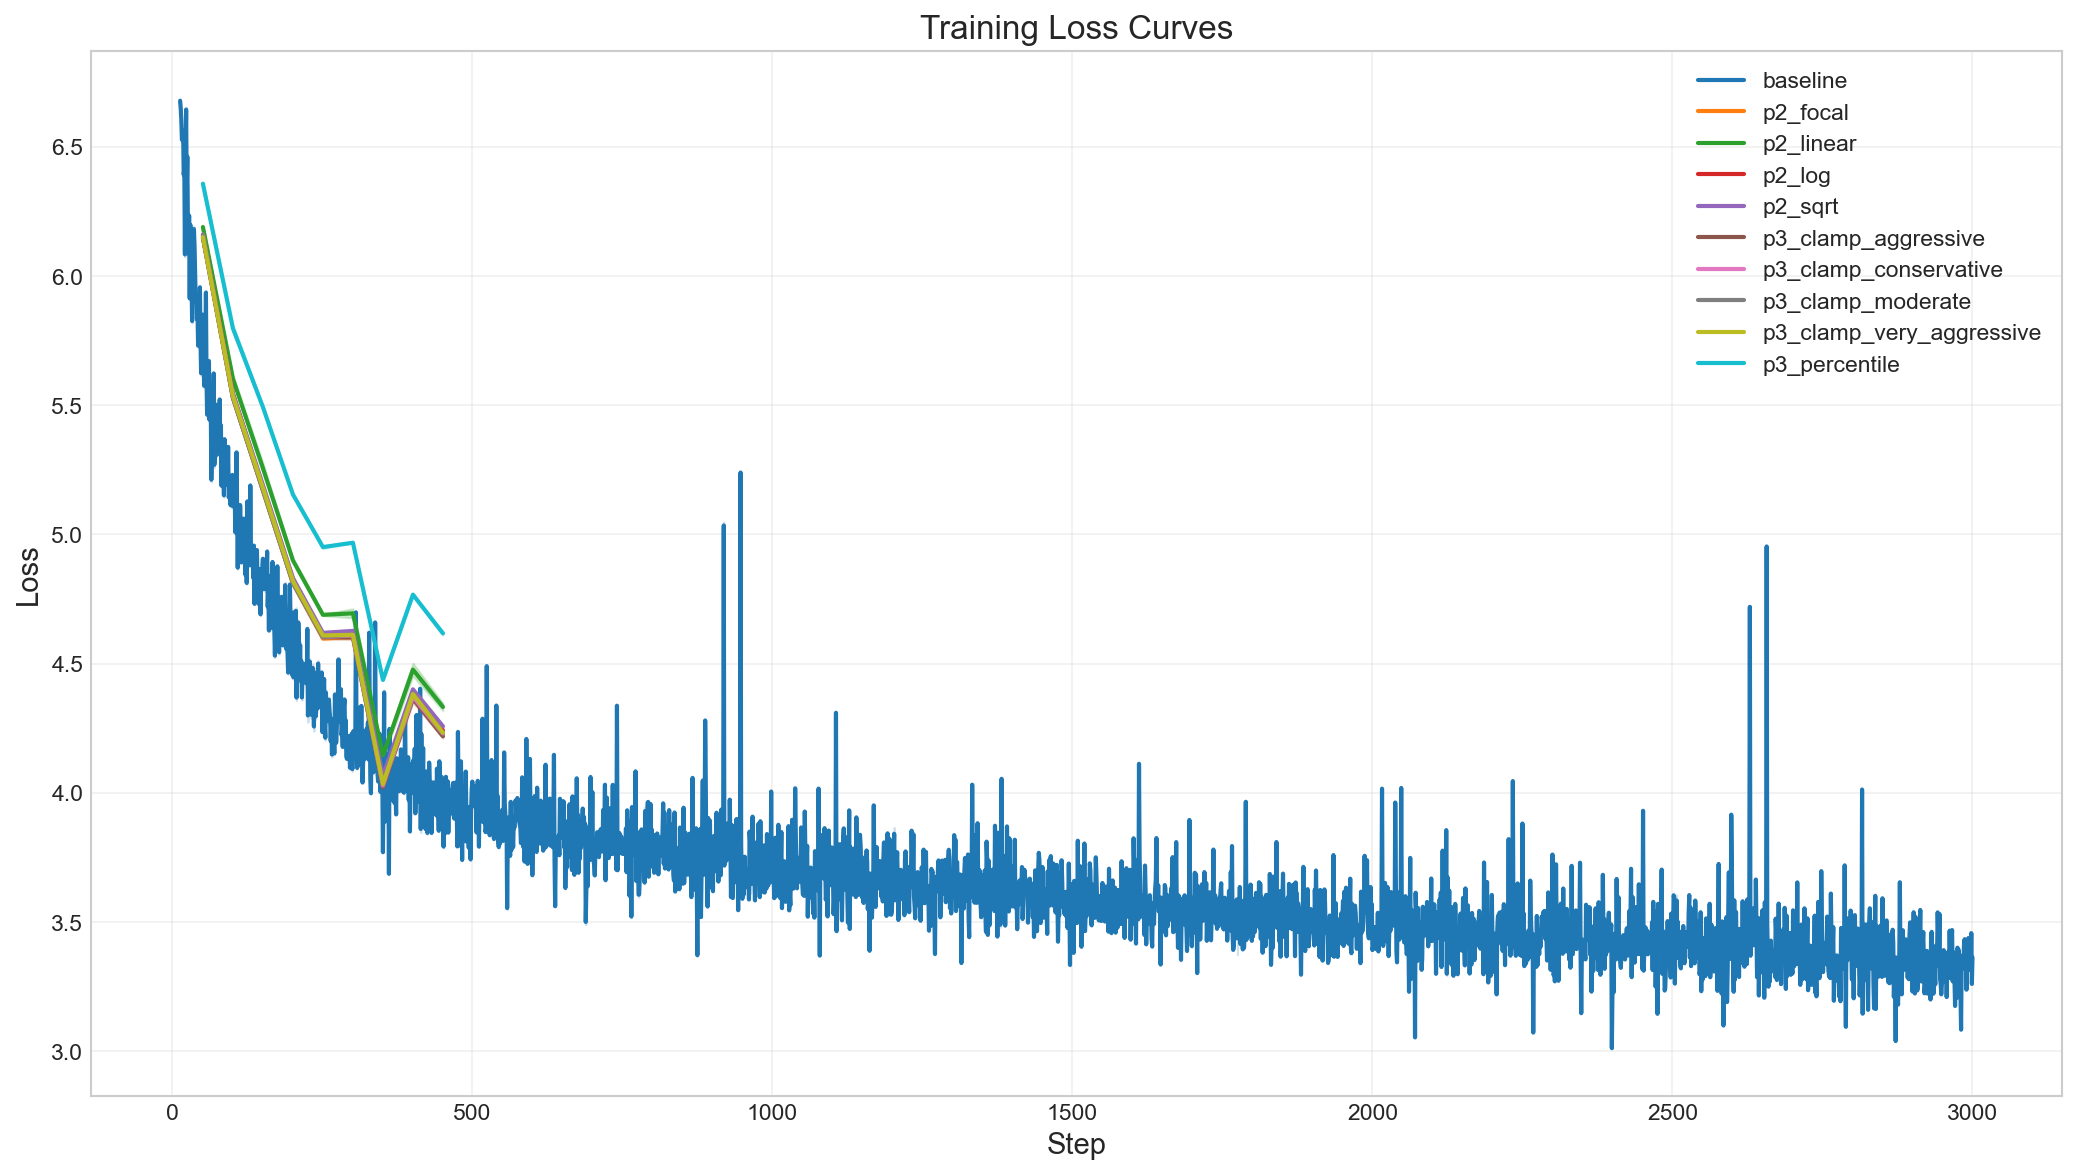
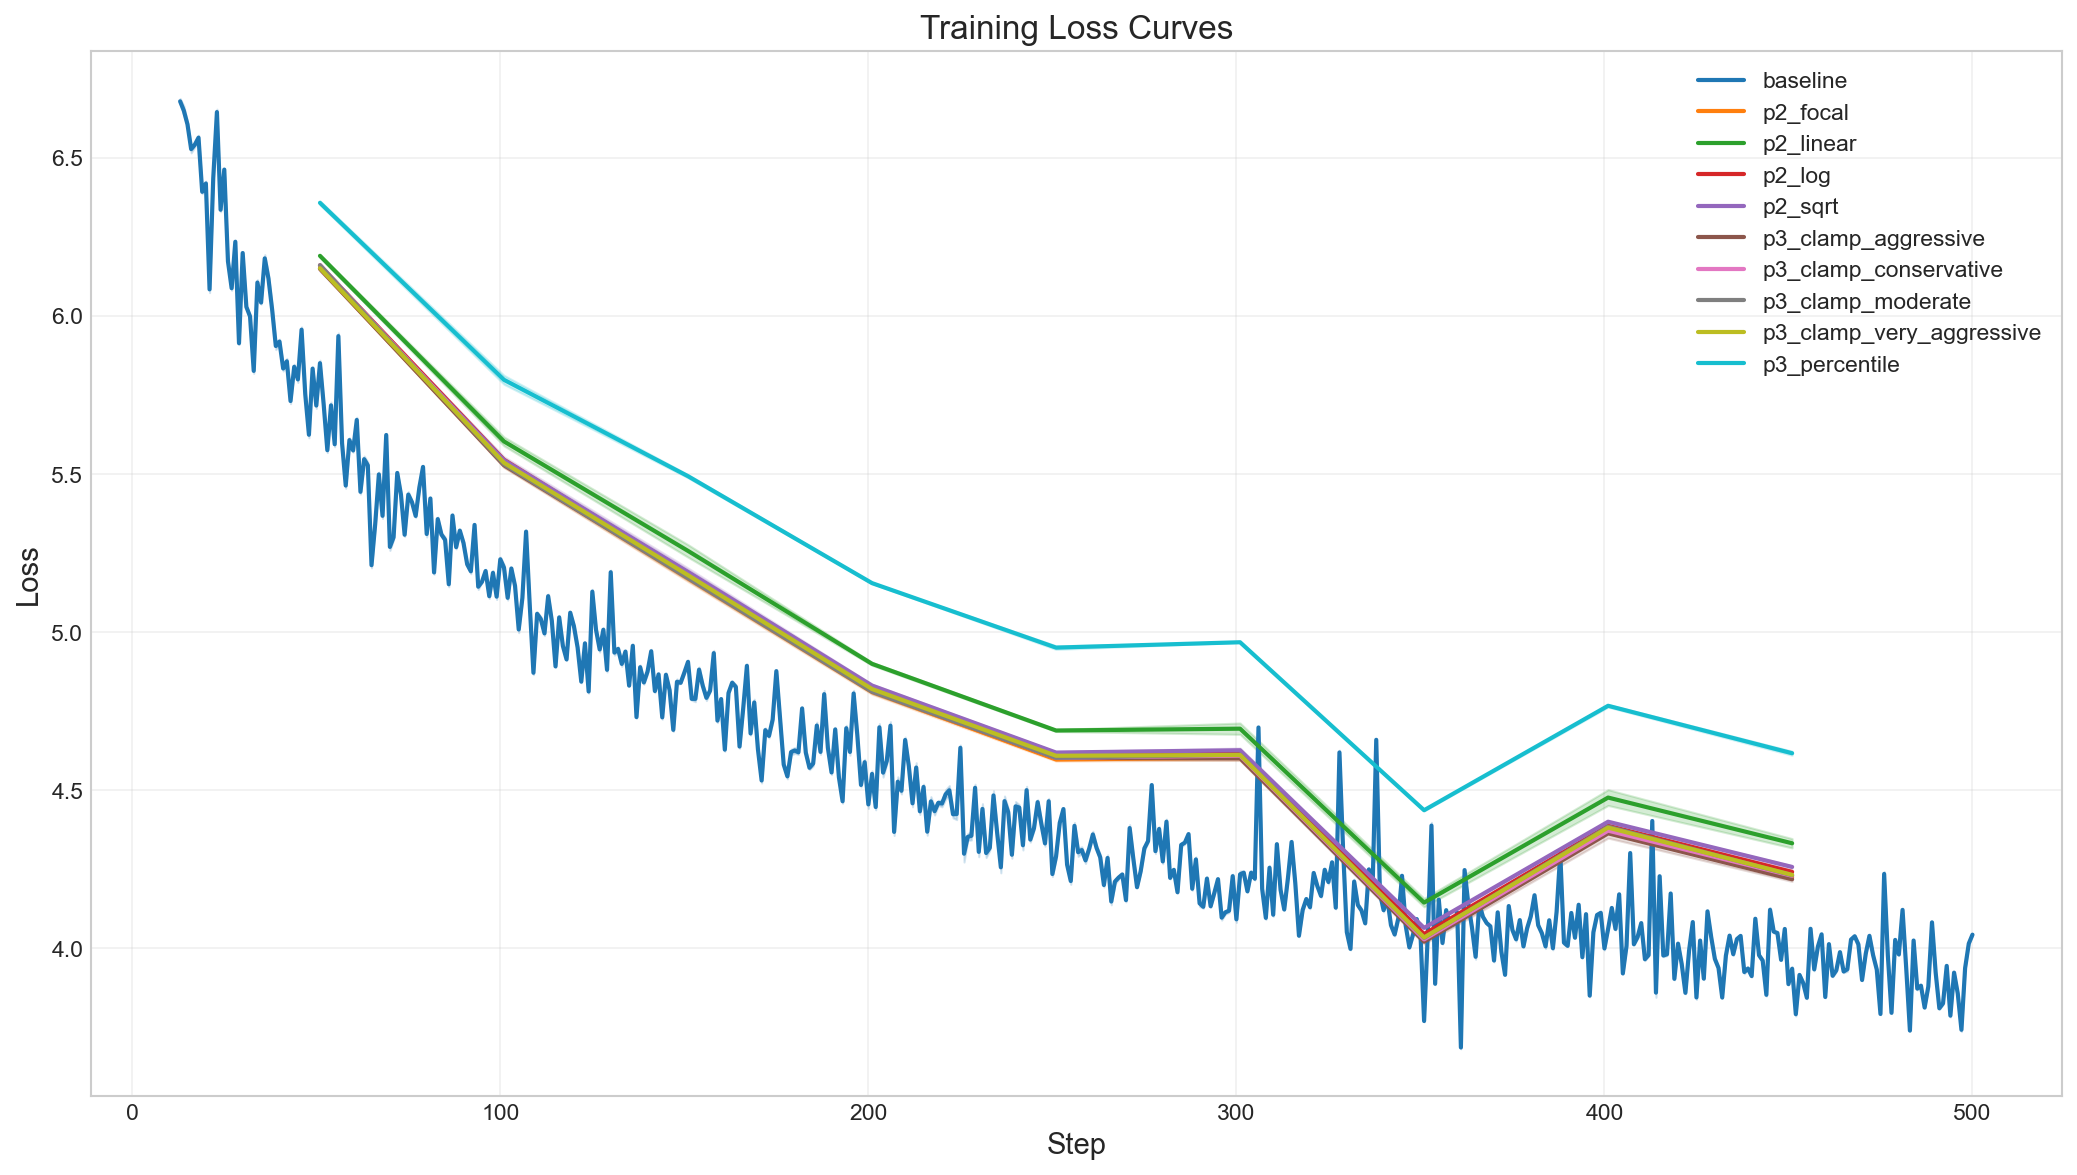
Additional grahs

diff --git a/tw_nano_experiments/analyze_tw.py b/tw_nano_experiments/analyze_tw.py
@@ -6,17 +6,27 @@ This script analyzes results from the ablation experiments, computing
 statistics, performing hypothesis tests, and generating visualizations.
 
 Usage:
-    # Analyze all results
-    python analyze_tw.py --results-dir ablation_results
+    # Basic analysis of all runs
+    python analyze_tw.py --results-dir ablation_results --output-dir analysis_output
 
-    # Analyze specific phase
-    python analyze_tw.py --results-dir ablation_results --phase 2
+    # Only analyze a phase (e.g., screening)
+    python analyze_tw.py --results-dir ablation_results --phase 1
 
-    # Generate comparison report
-    python analyze_tw.py --results-dir ablation_results --compare-to-baseline
+    # Compare all configs to baseline at a fixed step (truncated baseline)
+    python analyze_tw.py --results-dir ablation_results --compare-at-step 500
 
-    # Export results to CSV
+    # Export raw tables (runs, curves) to CSV
     python analyze_tw.py --results-dir ablation_results --export-csv
+    
+Outputs (under --output-dir):
+    - training_curves_val.png / training_curves_train.png (truncated to 500 steps)
+    - val_loss_step_500.png (bar + error at step cutoff)
+    - val_loss_vs_time_step_500.png (speed/quality scatter)
+    - step_latency_boxplot.png (per-step latency by config)
+    - val_train_gap.png (val - train gap over first 500 steps)
+    - final_loss_comparison.png (boxplot)
+    - statistical_comparisons.csv (baseline vs treatments)
+    - optional CSV exports when --export-csv is set
 """
 
 import os
@@ -771,7 +781,8 @@ def plot_training_curves(
     groups: Dict[str, ExperimentGroup],
     output_path: Path,
     title: str = "Training Curves",
-    metric: str = "val_loss"
+    metric: str = "val_loss",
+    max_steps: Optional[int] = 500,
 ):
     """Plot training curves for multiple experiment groups."""
     setup_plotting_style()
@@ -786,6 +797,8 @@ def plot_training_curves(
             for run in group.runs:
                 all_steps.update(run.val_steps)
             all_steps = sorted(all_steps)
+            if max_steps is not None:
+                all_steps = [s for s in all_steps if s <= max_steps]
             
             if not all_steps:
                 continue
@@ -815,6 +828,8 @@ def plot_training_curves(
             for run in group.runs:
                 all_steps.update(run.steps)
             all_steps = sorted(all_steps)
+            if max_steps is not None:
+                all_steps = [s for s in all_steps if s <= max_steps]
             
             if not all_steps:
                 continue
@@ -842,6 +857,176 @@ def plot_training_curves(
     ax.legend(loc='upper right', framealpha=0.9)
     ax.grid(True, alpha=0.3)
     
+    plt.tight_layout()
+    plt.savefig(output_path, dpi=150, bbox_inches='tight')
+    plt.close()
+    print(f"Saved: {output_path}")
+
+
+def plot_val_loss_at_step(
+    groups: Dict[str, ExperimentGroup],
+    step: int,
+    output_path: Path,
+    baseline_name: Optional[str] = None,
+):
+    """Bar + error bars of validation loss at a fixed step (e.g., 500)."""
+    setup_plotting_style()
+    fig, ax = plt.subplots(figsize=(12, 7))
+    names, means, stds = [], [], []
+    colors = []
+    for name, group in groups.items():
+        vals = group.get_val_losses_at_step(step)
+        if len(vals) == 0:
+            continue
+        names.append(name)
+        means.append(np.mean(vals))
+        stds.append(np.std(vals, ddof=1) if len(vals) > 1 else 0)
+        colors.append('lightblue' if name == baseline_name else 'lightgreen')
+    if not names:
+        print(f"No validation data at step {step} to plot.")
+        return
+    ax.bar(names, means, yerr=stds, color=colors, capsize=5)
+    ax.set_ylabel('Validation Loss')
+    ax.set_title(f'Validation Loss at Step {step}')
+    ax.tick_params(axis='x', rotation=45)
+    plt.tight_layout()
+    plt.savefig(output_path, dpi=150, bbox_inches='tight')
+    plt.close()
+    print(f"Saved: {output_path}")
+
+
+def plot_loss_vs_time(
+    groups: Dict[str, ExperimentGroup],
+    step: int,
+    output_path: Path,
+):
+    """Scatter val loss vs train time at a given step to show speed/quality tradeoff."""
+    setup_plotting_style()
+    fig, ax = plt.subplots(figsize=(12, 7))
+    for name, group in groups.items():
+        vals = group.get_val_losses_at_step(step)
+        times = group.get_train_times_at_step(step)
+        if len(vals) == 0 or len(times) == 0:
+            continue
+        ax.scatter(times / 1000.0, vals, label=name, alpha=0.8)
+    if not ax.collections:
+        print(f"No data to plot loss-vs-time at step {step}.")
+        return
+    ax.set_xlabel('Train Time at Step (s)')
+    ax.set_ylabel('Validation Loss')
+    ax.set_title(f'Validation Loss vs Time at Step {step}')
+    ax.legend()
+    plt.tight_layout()
+    plt.savefig(output_path, dpi=150, bbox_inches='tight')
+    plt.close()
+    print(f"Saved: {output_path}")
+
+
+def plot_step_latency(
+    groups: Dict[str, ExperimentGroup],
+    output_path: Path,
+):
+    """Boxplot of per-step latency across runs."""
+    setup_plotting_style()
+    fig, ax = plt.subplots(figsize=(12, 7))
+    data, labels = [], []
+    for name, group in groups.items():
+        lat = group.get_step_avg_times()
+        if len(lat) == 0:
+            continue
+        data.append(lat)
+        labels.append(name)
+    if not data:
+        print("No step latency data to plot.")
+        return
+    bp = ax.boxplot(data, labels=labels, patch_artist=True)
+    for patch in bp['boxes']:
+        patch.set_facecolor('lightgray')
+    ax.set_ylabel('Step Avg (ms)')
+    ax.set_title('Per-Step Latency by Configuration')
+    ax.tick_params(axis='x', rotation=45)
+    plt.tight_layout()
+    plt.savefig(output_path, dpi=150, bbox_inches='tight')
+    plt.close()
+    print(f"Saved: {output_path}")
+
+
+def plot_val_loss_boxplot(
+    groups: Dict[str, ExperimentGroup],
+    step: int,
+    output_path: Path,
+    baseline_name: Optional[str] = None,
+):
+    """Boxplot of validation losses at a fixed step across configs."""
+    setup_plotting_style()
+    fig, ax = plt.subplots(figsize=(12, 7))
+    data, labels, colors = [], [], []
+    for name, group in groups.items():
+        vals = group.get_val_losses_at_step(step)
+        if len(vals) == 0:
+            continue
+        data.append(vals)
+        labels.append(f"{name}\n(n={len(vals)})")
+        colors.append('lightblue' if name == baseline_name else 'lightgreen')
+    if not data:
+        print(f"No validation data at step {step} to plot.")
+        return
+    bp = ax.boxplot(data, labels=labels, patch_artist=True)
+    for patch, color in zip(bp['boxes'], colors):
+        patch.set_facecolor(color)
+    for whisker in bp['whiskers']:
+        whisker.set_color('gray')
+    for cap in bp['caps']:
+        cap.set_color('gray')
+    for median in bp['medians']:
+        median.set_color('black')
+    ax.set_ylabel('Validation Loss')
+    ax.set_title(f'Validation Loss at Step {step}')
+    ax.tick_params(axis='x', rotation=45)
+    plt.tight_layout()
+    plt.savefig(output_path, dpi=150, bbox_inches='tight')
+    plt.close()
+    print(f"Saved: {output_path}")
+
+
+def plot_val_train_gap(
+    groups: Dict[str, ExperimentGroup],
+    output_path: Path,
+    max_steps: int = 500,
+):
+    """Plot (val - train) loss over steps to watch for overfitting in early horizon."""
+    setup_plotting_style()
+    fig, ax = plt.subplots(figsize=(14, 8))
+    colors = plt.cm.tab10(np.linspace(0, 1, len(groups)))
+    for (name, group), color in zip(groups.items(), colors):
+        all_steps = set()
+        for run in group.runs:
+            all_steps.update([s for s in run.val_steps if s <= max_steps])
+        all_steps = sorted(all_steps)
+        if not all_steps:
+            continue
+        gaps = []
+        for run in group.runs:
+            if not run.val_steps or not run.val_losses or not run.steps or not run.train_losses:
+                continue
+            # interpolate train loss to val steps for alignment
+            train_interp = np.interp(all_steps, run.steps, run.train_losses)
+            val_interp = np.interp(all_steps, run.val_steps, run.val_losses)
+            gaps.append(val_interp - train_interp)
+        if not gaps:
+            continue
+        gaps = np.array(gaps)
+        mean_gap = np.mean(gaps, axis=0)
+        std_gap = np.std(gaps, axis=0)
+        ax.plot(all_steps, mean_gap, label=name, color=color, linewidth=2)
+        ax.fill_between(all_steps, mean_gap - std_gap, mean_gap + std_gap, color=color, alpha=0.2)
+    if not ax.lines:
+        print("No val/train gap data to plot.")
+        return
+    ax.set_xlabel('Step')
+    ax.set_ylabel('Val - Train Loss')
+    ax.set_title(f'Generalization Gap (<= {max_steps} steps)')
+    ax.legend(loc='upper right', framealpha=0.9)
     plt.tight_layout()
     plt.savefig(output_path, dpi=150, bbox_inches='tight')
     plt.close()
@@ -1337,14 +1522,45 @@ def generate_report(
         groups, 
         output_dir / "training_curves_val.png",
         title="Validation Loss Training Curves",
-        metric="val_loss"
+        metric="val_loss",
+        max_steps=500
     )
     
     plot_training_curves(
         groups,
         output_dir / "training_curves_train.png", 
         title="Training Loss Curves",
-        metric="train_loss"
+        metric="train_loss",
+        max_steps=500
+    )
+
+    # Early-horizon comparisons at 500 steps
+    step_cutoff = 500
+    plot_val_loss_at_step(
+        groups,
+        step=step_cutoff,
+        output_path=output_dir / f"val_loss_step_{step_cutoff}.png",
+        baseline_name=baseline_name,
+    )
+    plot_val_loss_boxplot(
+        groups,
+        step=step_cutoff,
+        output_path=output_dir / f"val_loss_boxplot_step_{step_cutoff}.png",
+        baseline_name=baseline_name,
+    )
+    plot_loss_vs_time(
+        groups,
+        step=step_cutoff,
+        output_path=output_dir / f"val_loss_vs_time_step_{step_cutoff}.png",
+    )
+    plot_step_latency(
+        groups,
+        output_path=output_dir / "step_latency_boxplot.png",
+    )
+    plot_val_train_gap(
+        groups,
+        output_path=output_dir / "val_train_gap.png",
+        max_steps=step_cutoff,
     )
     
     # Final loss comparison
